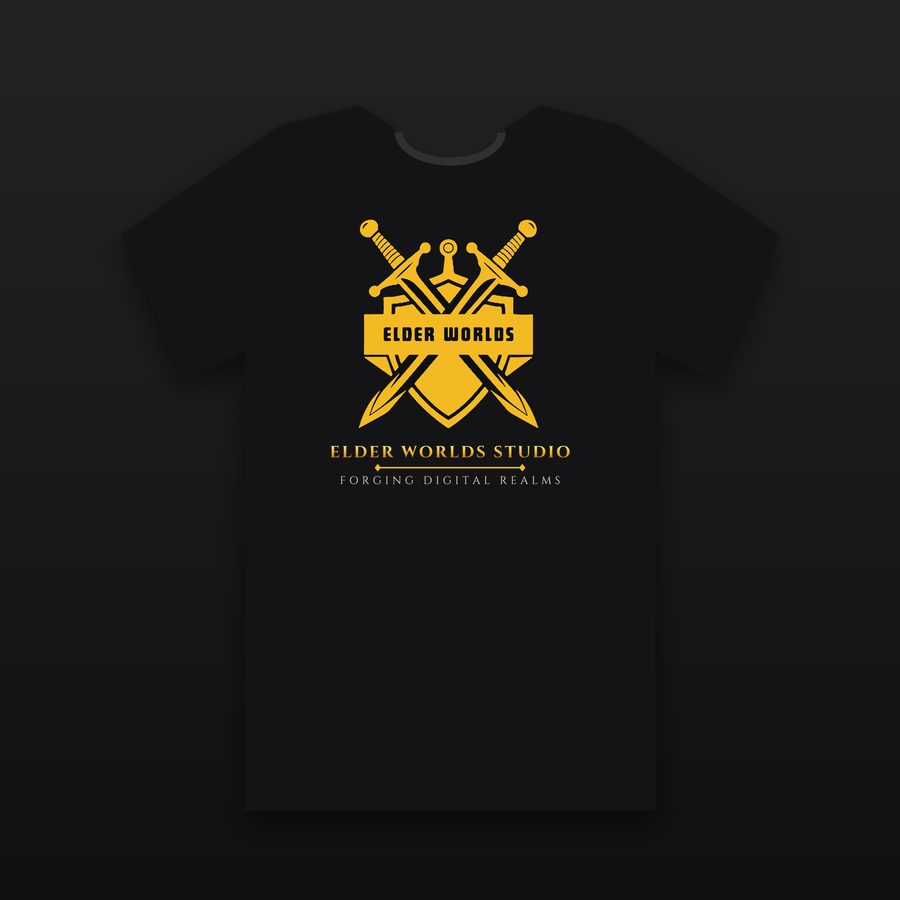
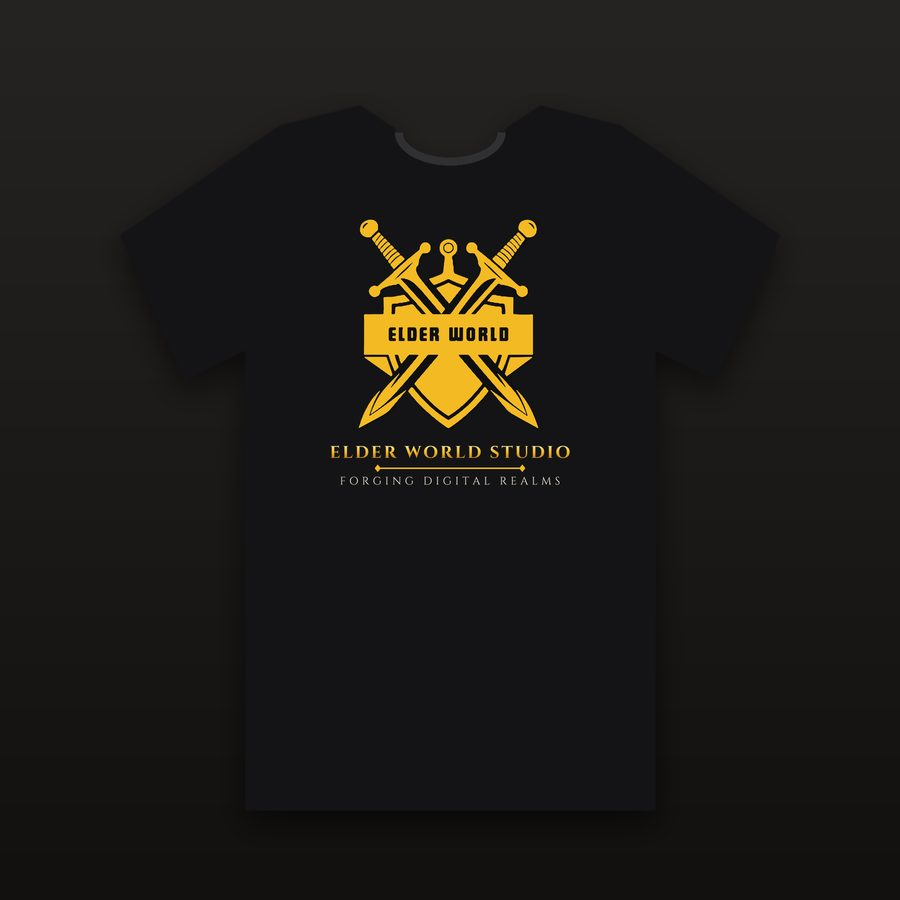
Merch: crest reads ELDER WORLD / Elder World Studio; product names updated; cache-bust merch images

Changed region(s): [[0.4044, 0.3422, 0.5911, 0.4044], [0.3733, 0.4978, 0.6222, 0.5289]]

diff --git a/site/merch/index.html b/site/merch/index.html
@@ -41,17 +41,17 @@
   <div class="center"><h2>The Launch Lineup</h2><p class="lead">The store is opening soon. Tap &ldquo;Notify me&rdquo; to send us a quick email and we&rsquo;ll write back once it&rsquo;s live. Prices are planned launch prices in USD and may change slightly.</p></div>
   <div class="grid cards">
    <article class="card merch" id="crest-tee">
-    <img class="thumb sq" src="../assets/img/merch/crest-tee.jpg" width="900" height="900" alt="Elder Worlds Crest Tee preview" loading="lazy">
+    <img class="thumb sq" src="../assets/img/merch/crest-tee.jpg?v=2" width="900" height="900" alt="Elder World Crest Tee preview" loading="lazy">
     <div class="body">
      <span class="tag soon">Coming soon</span>
-     <h3>Elder Worlds Crest Tee</h3>
-     <p class="meta">Elder Worlds Studio</p>
+     <h3>Elder World Crest Tee</h3>
+     <p class="meta">Elder World Studio</p>
      <p>Our gold crest and “Forging Digital Realms” on a soft black Bella+Canvas tee.</p>
-     <div class="actions"><span class="price">$26</span><a class="btn btn-ghost" href="mailto:unity@elderworldsstudio.com?subject=Notify%20me%3A%20Elder%20Worlds%20Crest%20Tee&body=Please%20email%20me%20when%20this%20is%20available.%20Size%20%28if%20apparel%29%3A%20">Notify me</a></div>
+     <div class="actions"><span class="price">$26</span><a class="btn btn-ghost" href="mailto:unity@elderworldsstudio.com?subject=Notify%20me%3A%20Elder%20World%20Crest%20Tee&body=Please%20email%20me%20when%20this%20is%20available.%20Size%20%28if%20apparel%29%3A%20">Notify me</a></div>
     </div>
    </article>
    <article class="card merch" id="omnivael-tee">
-    <img class="thumb sq" src="../assets/img/merch/omnivael-tee.jpg" width="900" height="900" alt="Omnivael “No Chosen One” Tee preview" loading="lazy">
+    <img class="thumb sq" src="../assets/img/merch/omnivael-tee.jpg?v=2" width="900" height="900" alt="Omnivael “No Chosen One” Tee preview" loading="lazy">
     <div class="body">
      <span class="tag soon">Coming soon</span>
      <h3>Omnivael “No Chosen One” Tee</h3>
@@ -61,7 +61,7 @@
     </div>
    </article>
    <article class="card merch" id="shuttle-tee">
-    <img class="thumb sq" src="../assets/img/merch/shuttle-tee.jpg" width="900" height="900" alt="Star Wayfarer Shuttle Tee preview" loading="lazy">
+    <img class="thumb sq" src="../assets/img/merch/shuttle-tee.jpg?v=2" width="900" height="900" alt="Star Wayfarer Shuttle Tee preview" loading="lazy">
     <div class="body">
      <span class="tag soon">Coming soon</span>
      <h3>Star Wayfarer Shuttle Tee</h3>
@@ -71,17 +71,17 @@
     </div>
    </article>
    <article class="card merch" id="crest-hoodie">
-    <img class="thumb sq" src="../assets/img/merch/crest-hoodie.jpg" width="900" height="900" alt="Elder Worlds Crest Hoodie preview" loading="lazy">
+    <img class="thumb sq" src="../assets/img/merch/crest-hoodie.jpg?v=2" width="900" height="900" alt="Elder World Crest Hoodie preview" loading="lazy">
     <div class="body">
      <span class="tag soon">Coming soon</span>
-     <h3>Elder Worlds Crest Hoodie</h3>
-     <p class="meta">Elder Worlds Studio</p>
+     <h3>Elder World Crest Hoodie</h3>
+     <p class="meta">Elder World Studio</p>
      <p>Big crest on the back, small crest on the chest. Heavy blend, double-lined hood.</p>
-     <div class="actions"><span class="price">$48</span><a class="btn btn-ghost" href="mailto:unity@elderworldsstudio.com?subject=Notify%20me%3A%20Elder%20Worlds%20Crest%20Hoodie&body=Please%20email%20me%20when%20this%20is%20available.%20Size%20%28if%20apparel%29%3A%20">Notify me</a></div>
+     <div class="actions"><span class="price">$48</span><a class="btn btn-ghost" href="mailto:unity@elderworldsstudio.com?subject=Notify%20me%3A%20Elder%20World%20Crest%20Hoodie&body=Please%20email%20me%20when%20this%20is%20available.%20Size%20%28if%20apparel%29%3A%20">Notify me</a></div>
     </div>
    </article>
    <article class="card merch" id="wave-mug">
-    <img class="thumb sq" src="../assets/img/merch/wave-mug.jpg" width="900" height="900" alt="“Just One More Wave” Mug preview" loading="lazy">
+    <img class="thumb sq" src="../assets/img/merch/wave-mug.jpg?v=2" width="900" height="900" alt="“Just One More Wave” Mug preview" loading="lazy">
     <div class="body">
      <span class="tag soon">Coming soon</span>
      <h3>“Just One More Wave” Mug</h3>
@@ -91,7 +91,7 @@
     </div>
    </article>
    <article class="card merch" id="stickers">
-    <img class="thumb sq" src="../assets/img/merch/stickers.jpg" width="900" height="900" alt="Die-Cut Stickers preview" loading="lazy">
+    <img class="thumb sq" src="../assets/img/merch/stickers.jpg?v=2" width="900" height="900" alt="Die-Cut Stickers preview" loading="lazy">
     <div class="body">
      <span class="tag soon">Coming soon</span>
      <h3>Die-Cut Stickers</h3>

diff --git a/tools/merch_config.py b/tools/merch_config.py
@@ -6,13 +6,13 @@ STORE_URL = None
 STORE_NAME = "Fourthwall"
 NOTIFY_EMAIL = "unity@elderworldsstudio.com"
 PRODUCTS = [
-    {"id": "crest-tee", "name": "Elder Worlds Crest Tee", "price": "$26", "game": "Elder Worlds Studio",
+    {"id": "crest-tee", "name": "Elder World Crest Tee", "price": "$26", "game": "Elder World Studio",
      "img": "crest-tee.jpg", "desc": "Our gold crest and \u201cForging Digital Realms\u201d on a soft black Bella+Canvas tee.", "url": None},
     {"id": "omnivael-tee", "name": "Omnivael \u201cNo Chosen One\u201d Tee", "price": "$26", "game": "Omnivael: Wayfarers Life",
      "img": "omnivael-tee.jpg", "desc": "No Chosen One. No war to win. Just a world to live in. The Wayfarers Life motto in gold.", "url": None},
     {"id": "shuttle-tee", "name": "Star Wayfarer Shuttle Tee", "price": "$26", "game": "Star Wayfarer",
      "img": "shuttle-tee.jpg", "desc": "The Wayfarer shuttle from Star Wayfarer, rendered from the in-game model.", "url": None},
-    {"id": "crest-hoodie", "name": "Elder Worlds Crest Hoodie", "price": "$48", "game": "Elder Worlds Studio",
+    {"id": "crest-hoodie", "name": "Elder World Crest Hoodie", "price": "$48", "game": "Elder World Studio",
      "img": "crest-hoodie.jpg", "desc": "Big crest on the back, small crest on the chest. Heavy blend, double-lined hood.", "url": None},
     {"id": "wave-mug", "name": "\u201cJust One More Wave\u201d Mug", "price": "$16", "game": "Chronicles of the Realm",
      "img": "wave-mug.jpg", "desc": "11 oz glossy mug for the arena regulars of Chronicles of the Realm.", "url": None},

diff --git a/tools/build.py b/tools/build.py
@@ -318,6 +318,7 @@ for p in ["privacy-policy/index.html", "privacy/index.html", "privacy-policy.htm
 import html as _h, sys as _sys
 _sys.path.insert(0, str(pathlib.Path(__file__).resolve().parent))
 import merch_config as MC
+MERCH_IMG_V = "2"  # bump when the merch mockup images change (cache-bust)
 def _merch_body():
     live = bool(MC.STORE_URL)
     cards = []
@@ -333,7 +334,7 @@ def _merch_body():
             tag = '<span class="tag soon">Coming soon</span>'
             btn = f'<a class="btn btn-ghost" href="{mail}">Notify me</a>'
         cards.append(f"""   <article class="card merch" id="{it['id']}">
-    <img class="thumb sq" src="{{P}}assets/img/merch/{it['img']}" width="900" height="900" alt="{_h.escape(it['name'])} preview" loading="lazy">
+    <img class="thumb sq" src="{{P}}assets/img/merch/{it['img']}?v={MERCH_IMG_V}" width="900" height="900" alt="{_h.escape(it['name'])} preview" loading="lazy">
     <div class="body">
      {tag}
      <h3>{_h.escape(it['name'])}</h3>
